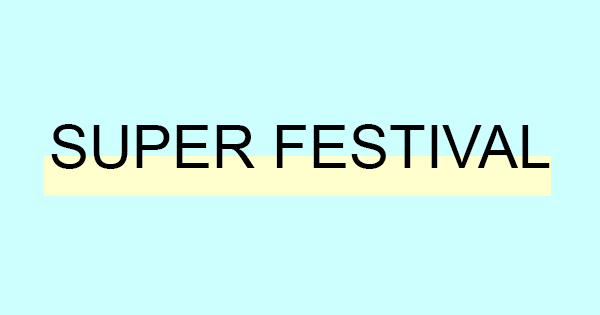
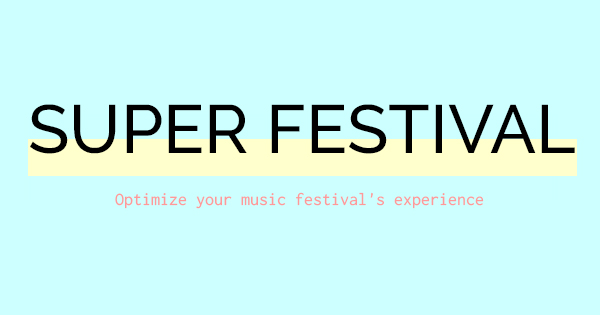
details meta / typo 404

Changed region(s): [[0.03, 0.3143, 0.96, 0.6571]]

diff --git a/public/500.html b/public/500.html
@@ -1,15 +1,19 @@
 <!DOCTYPE html>
 <html>
 <head>
-  <title>The page you were looking for doesn't exist (404)</title>
+  <title>Super Festival</title>
   <meta name="viewport" content="width=device-width,initial-scale=1">
   <style>
+
+  @import 'https://fonts.googleapis.com/css?family=Inconsolata|Raleway';
+
   body {
-    background-color: #D5F1F2;
-    color: #2E2F30;
+    background-color: #d5f1f2;
+    color: #E9AFA3;
     text-align: center;
-    font-family: arial, sans-serif;
+    font-family: "Inconsolata", "Helvetica", "sans-serif";
     margin: 0;
+    font-family: 'Inconsolata', monospace;
   }
 
 
@@ -20,6 +24,7 @@
     box-shadow: 0px -54px #F2F5C6 inset;
     text-shadow: none;
     margin-bottom: -10px;
+    font-family: 'Raleway', sans-serif;
   }
 
   .title {
@@ -60,12 +65,12 @@
 <body>
   <!-- This file lives in public/404.html -->
     <div class="title">
-      <h1>Super 500</h1>
+      <h1>SUPER 500</h1>
       <p>Something went wrong. But do not be sad, here is a super gif.</p>
     </div>
     <div class="giphy">
     <iframe src="//giphy.com/embed/3o72F8iSthd8XiewUw" width="300" height="300" frameBorder="0" class="" allowFullScreen></iframe><p><a href="http://giphy.com/gifs/primark-watermelon-glastonbury-festival-essentials-3o72F8iSthd8XiewUw"></a></p>
     </div>
-    <div class="button"> <a href="http://superfestival.herokuapp.com/" class="btnText">Go back to the site</a></div>
+    <a href="http://superfestival.fr/" class="btnText"><div class="button"> Go back to the site</div></a>
 </body>
 </html>

diff --git a/public/404.html b/public/404.html
@@ -1,15 +1,18 @@
 <!DOCTYPE html>
 <html>
 <head>
-  <title>The page you were looking for doesn't exist (404)</title>
+  <title>Super Festival</title>
   <meta name="viewport" content="width=device-width,initial-scale=1">
   <style>
+  @import 'https://fonts.googleapis.com/css?family=Inconsolata|Raleway';
+
   body {
     background-color: #D5F1F2;
-    color: #2E2F30;
+    color: #e9afa3;
     text-align: center;
     font-family: arial, sans-serif;
     margin: 0;
+    font-family: 'Inconsolata', monospace;
   }
 
 
@@ -20,6 +23,7 @@
     box-shadow: 0px -54px #F2F5C6 inset;
     text-shadow: none;
     margin-bottom: -10px;
+    font-family: 'Raleway', sans-serif;
   }
 
   .title {
@@ -60,12 +64,12 @@
 <body>
   <!-- This file lives in public/404.html -->
     <div class="title">
-      <h1>Super 404</h1>
+      <h1>SUPER 404</h1>
       <p>The page you are looking for does not exist. But do not be sad, here is a super gif.</p>
     </div>
     <div class="giphy">
     <iframe src="//giphy.com/embed/3o72F8iSthd8XiewUw" width="300" height="300" frameBorder="0" class="" allowFullScreen></iframe><p><a href="http://giphy.com/gifs/primark-watermelon-glastonbury-festival-essentials-3o72F8iSthd8XiewUw"></a></p>
     </div>
-    <div class="button"> <a href="http://superfestival.herokuapp.com/" class="btnText">Go back to the site</a></div>
+     <a href="http://superfestival.herokuapp.com/" class="btnText"><div class="button">Go back to the site</div></a>
 </body>
 </html>
